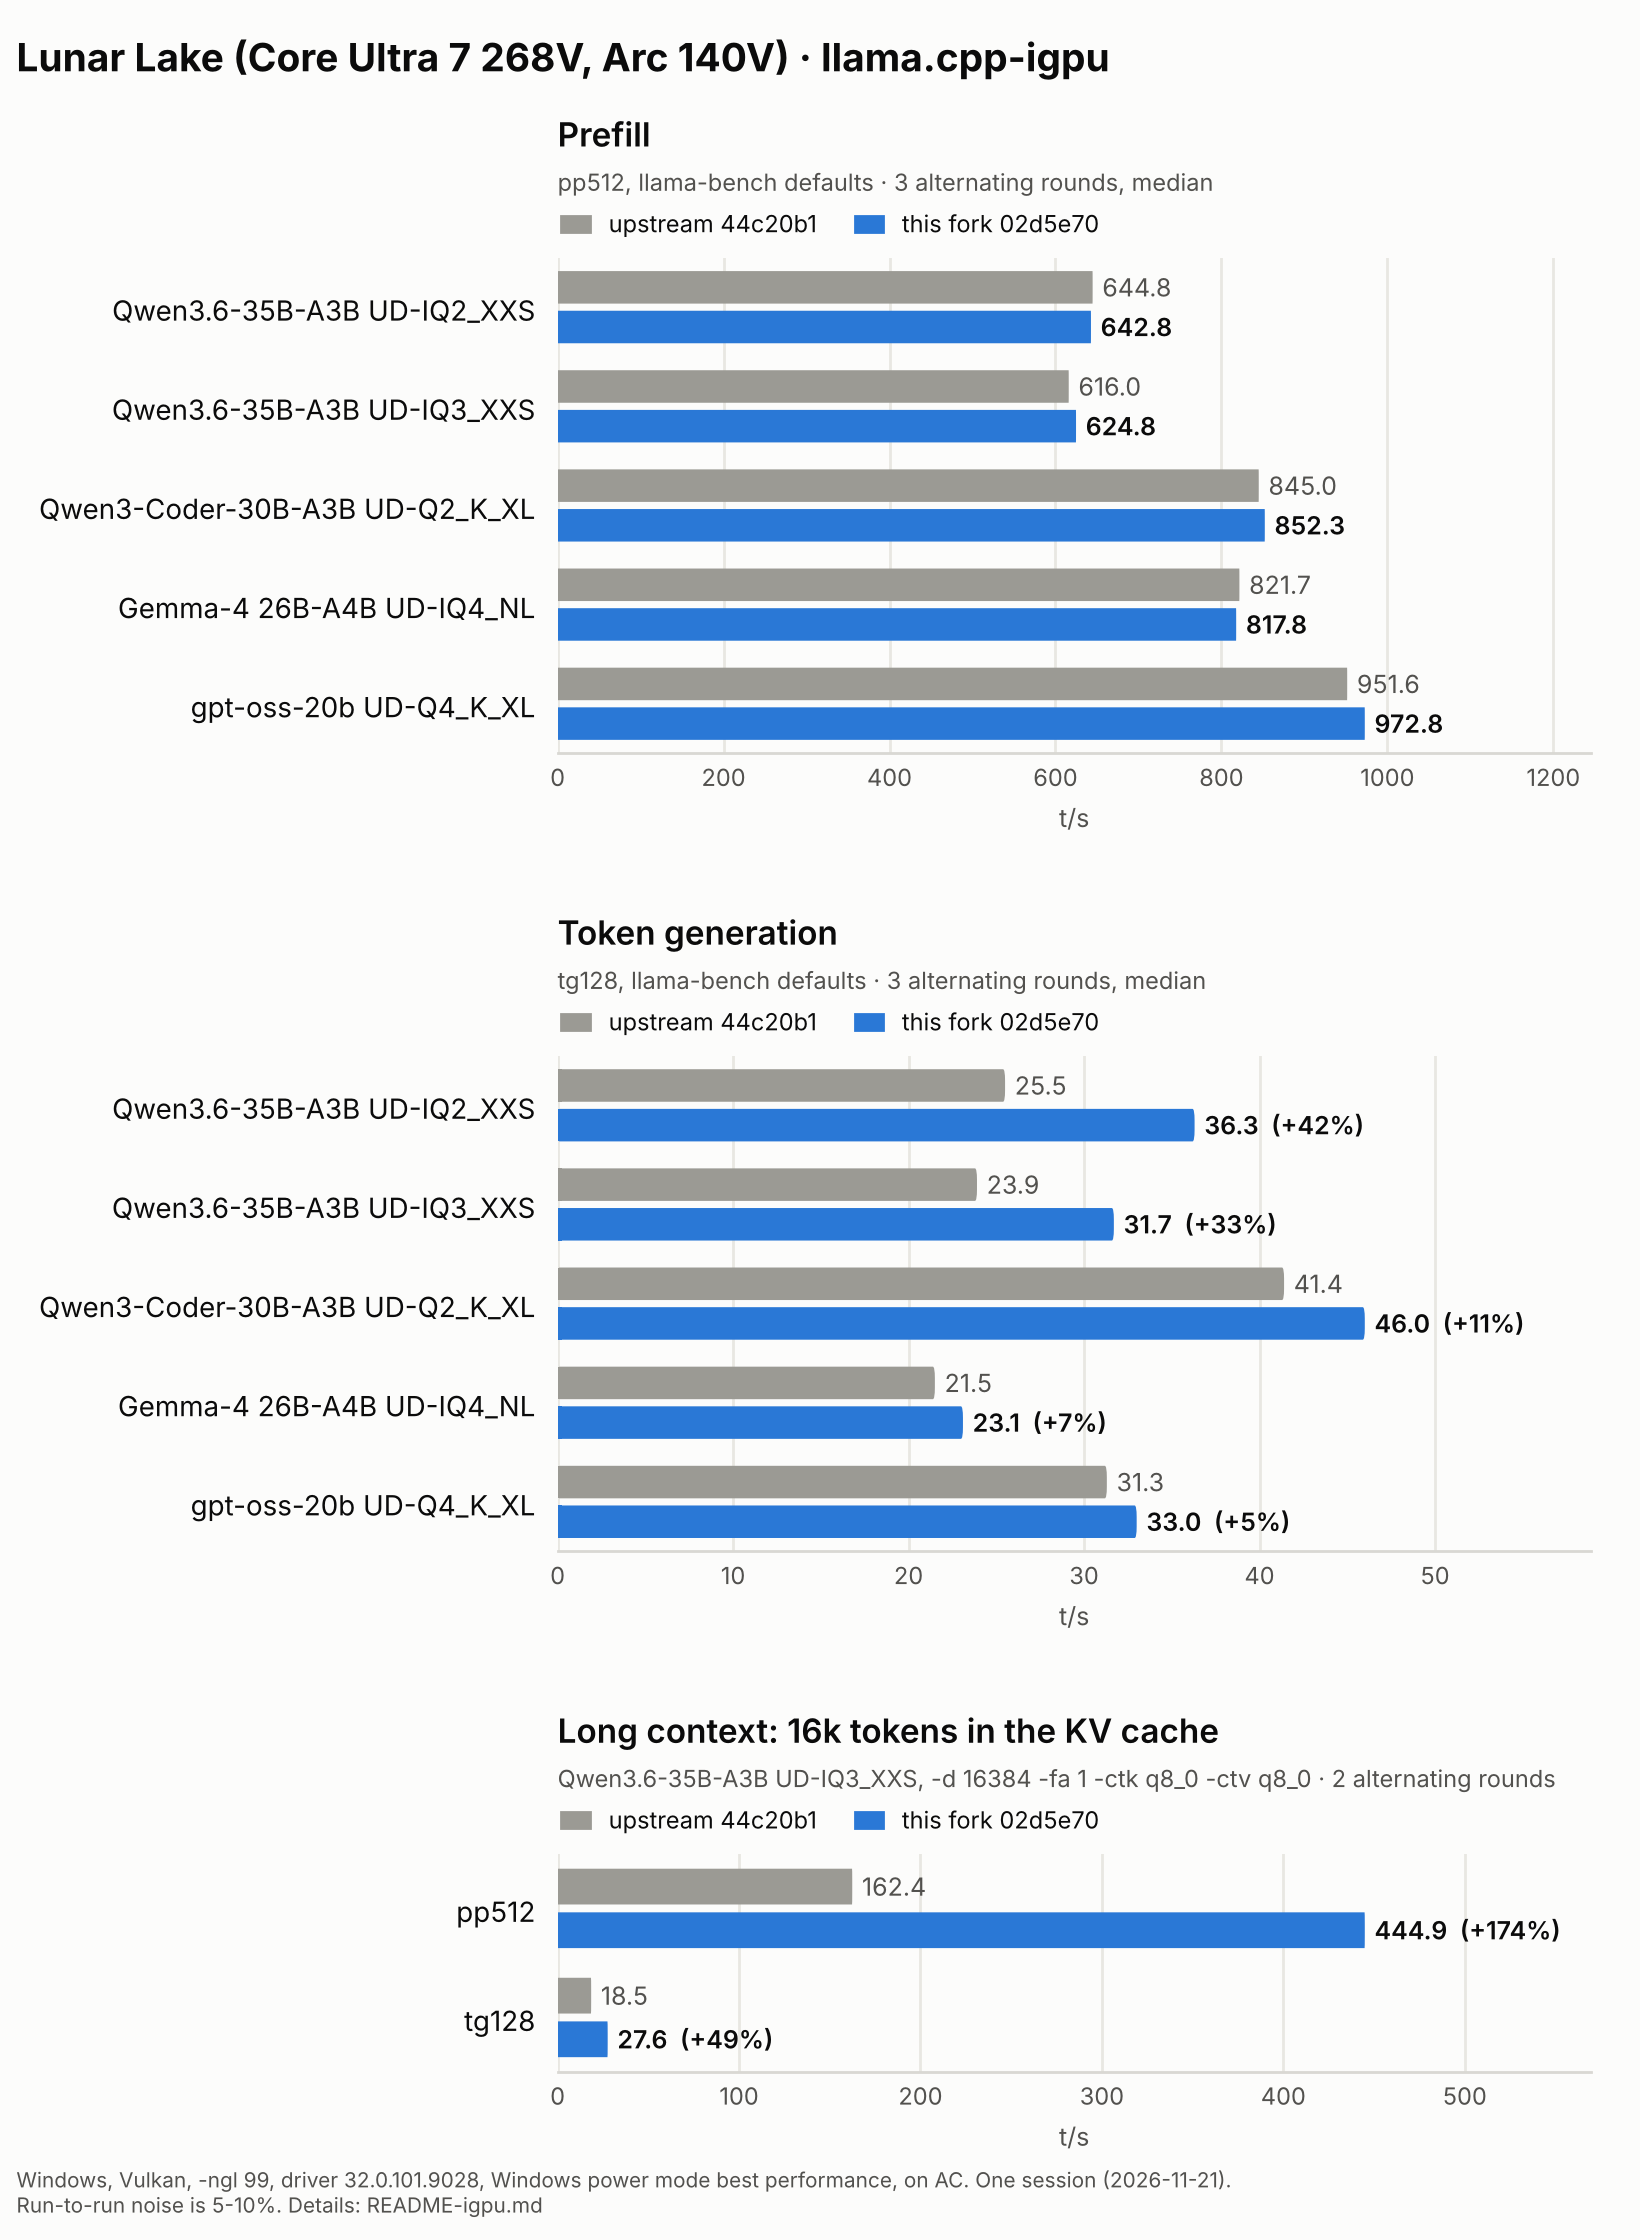
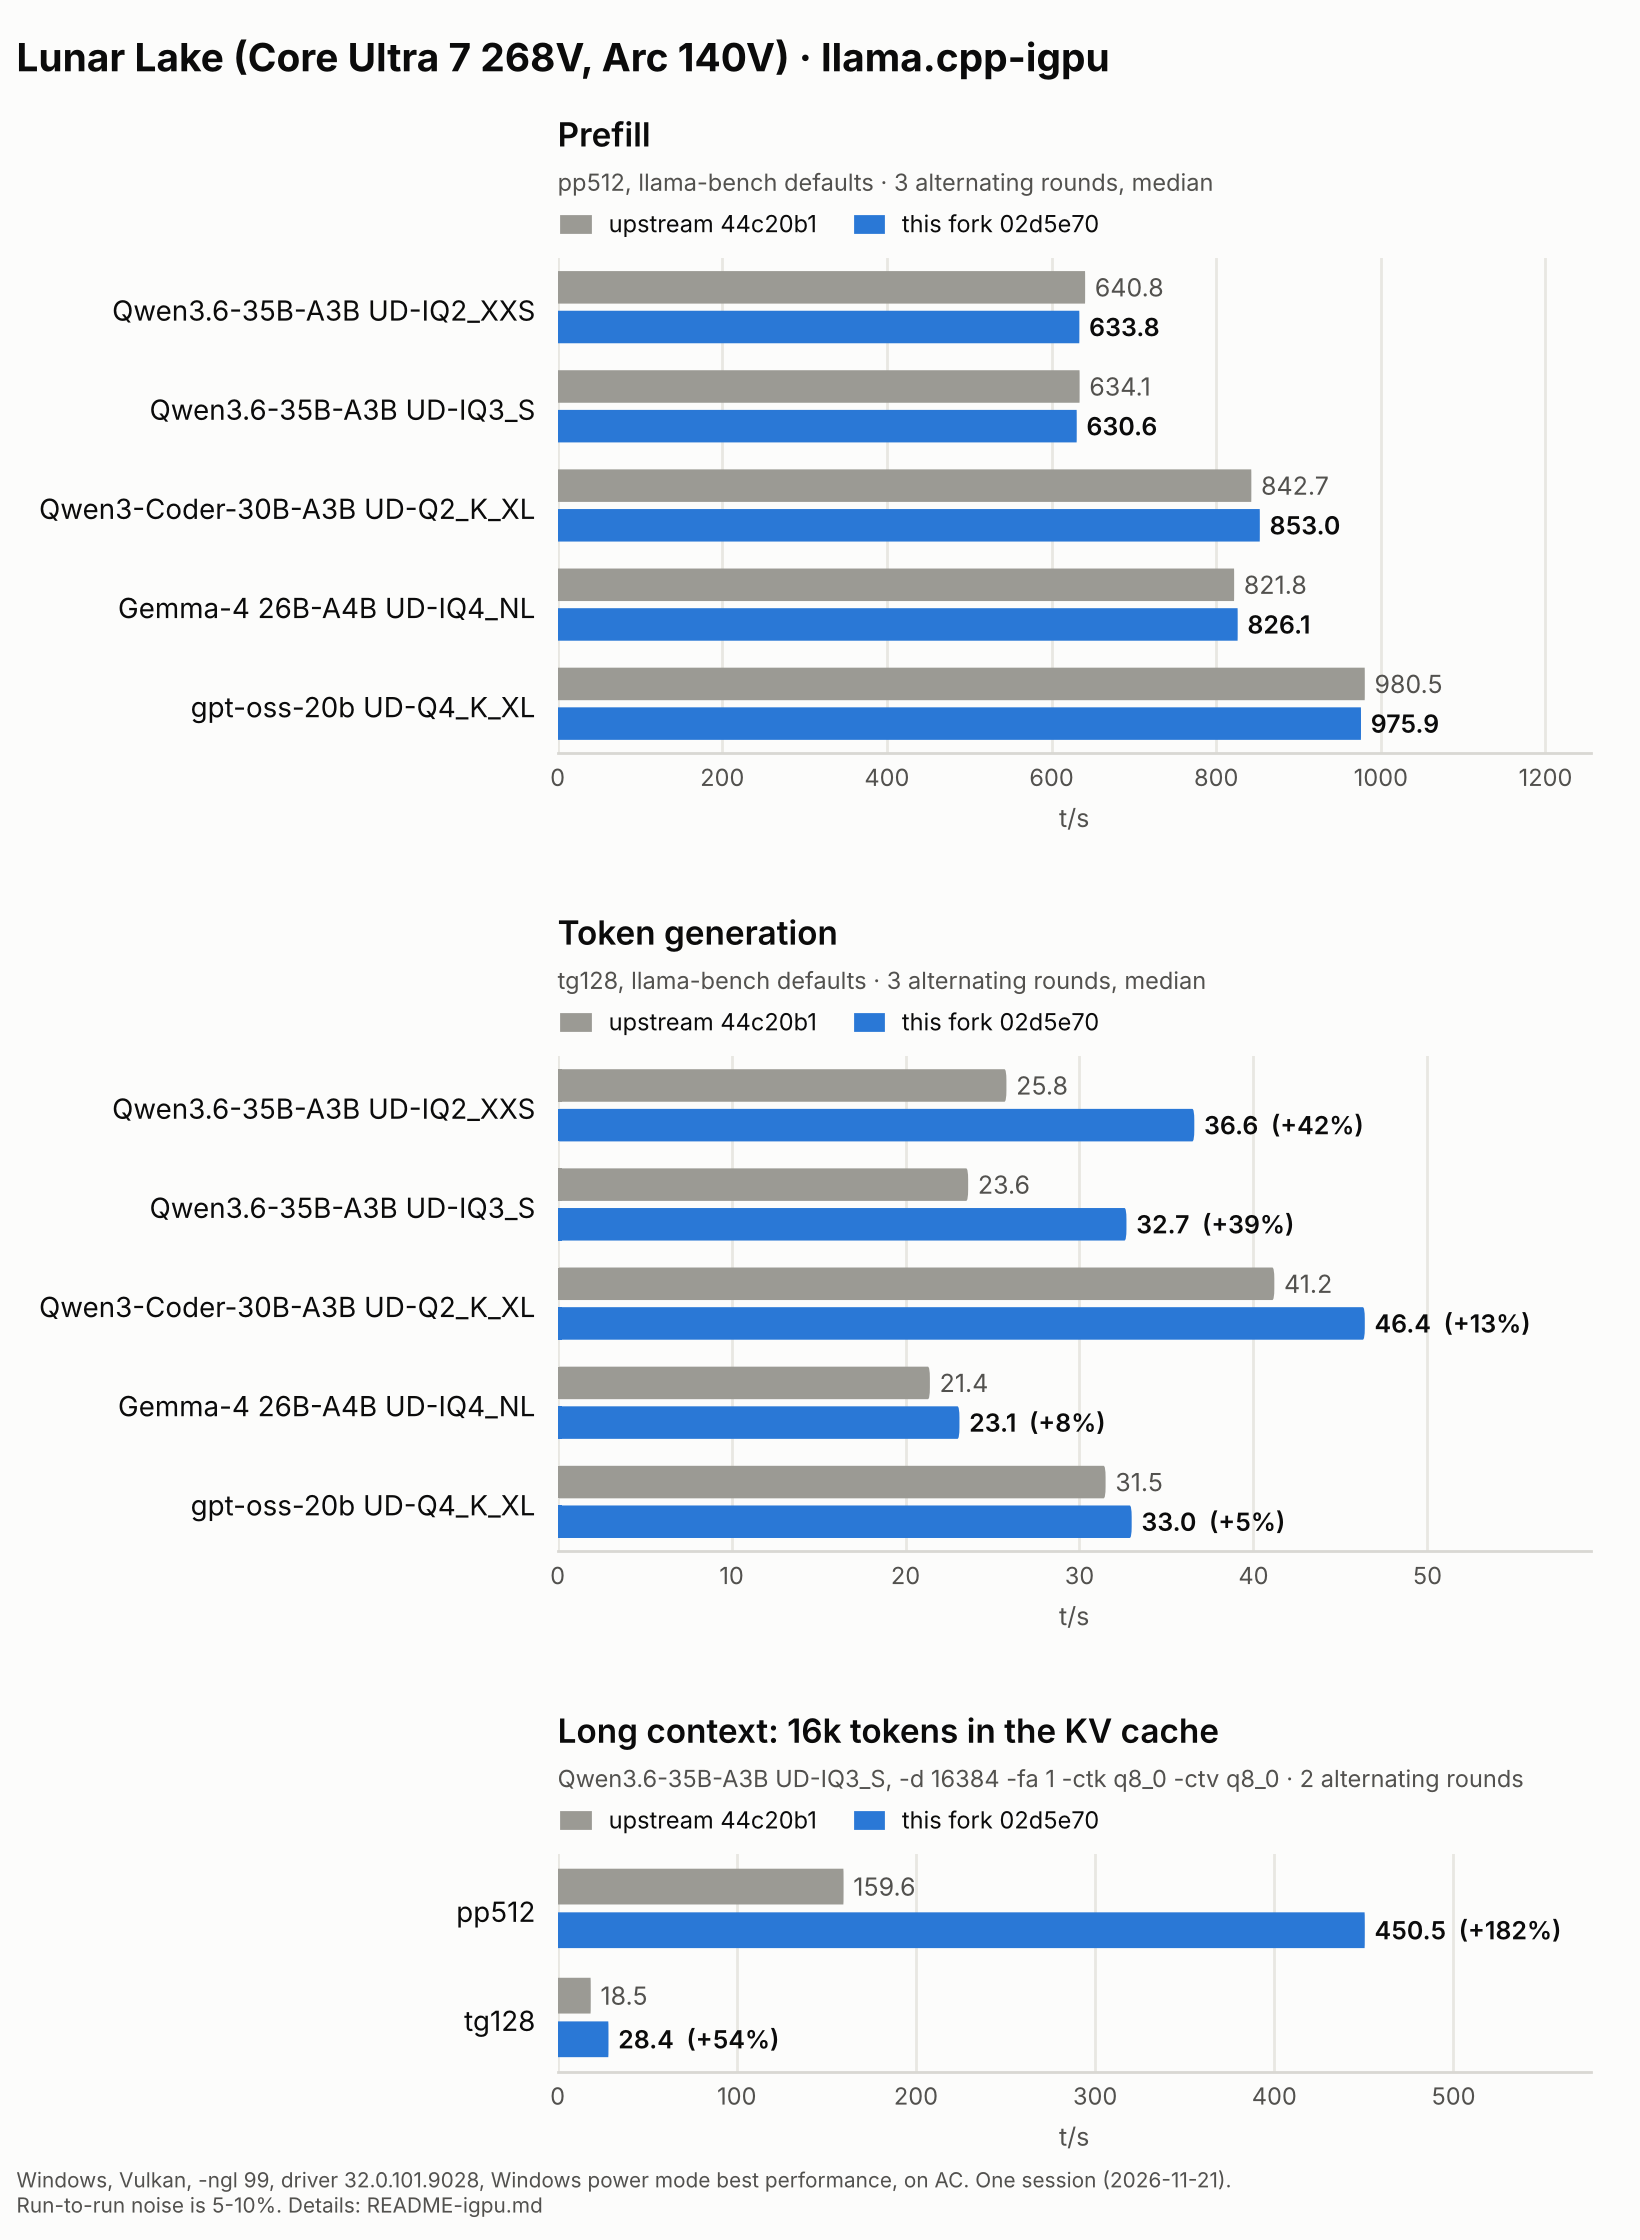
README-igpu: Lunar Lake upstream vs fork re-measured with the real UD-IQ3_S
The first run used a file named UD-IQ3_S that was UD-IQ3_XXS.

Claude-Session: https://claude.ai/code/session_016hN8uJYywep5xmvUceryRL

diff --git a/docs/igpu/make_charts.py b/docs/igpu/make_charts.py
@@ -112,27 +112,27 @@ save(fig, "igpu-meteor-lake.png",
      "Run-to-run noise is 5-10%. Details: README-igpu.md")
 
 # ---------------- Lunar Lake ----------------
-# bench-compare.ps1, 2026-11-21: Core Ultra 7 268V, driver 32.0.101.9028, upstream 44c20b1 vs fork 02d5e70,
-# 3 alternating rounds at depth 0 (2 at depth 16384), medians (upstream had one slow round for two models).
-LNL_MODELS = ["Qwen3.6-35B-A3B UD-IQ2_XXS", "Qwen3.6-35B-A3B UD-IQ3_XXS", "Qwen3-Coder-30B-A3B UD-Q2_K_XL",
+# bench-compare.ps1, 2026-11-21 (second run, IQ3_S re-downloaded): Core Ultra 7 268V, driver 32.0.101.9028,
+# upstream 44c20b1 vs fork 02d5e70, 3 alternating rounds at depth 0 (2 at depth 16384), medians.
+LNL_MODELS = ["Qwen3.6-35B-A3B UD-IQ2_XXS", "Qwen3.6-35B-A3B UD-IQ3_S", "Qwen3-Coder-30B-A3B UD-Q2_K_XL",
               "Gemma-4 26B-A4B UD-IQ4_NL", "gpt-oss-20b UD-Q4_K_XL"]
 fig, axs = plt.subplots(3, 1, figsize=(8.2, 11.2), facecolor=SURFACE,
                         gridspec_kw={"height_ratios": [5, 5, 2.2], "hspace": 0.75})
 panel(axs[0], "Prefill",
       "pp512, llama-bench defaults · 3 alternating rounds, median",
       LNL_MODELS,
-      [("upstream 44c20b1", BASE, [644.8, 616.0, 845.0, 821.7, 951.6]),
-       ("this fork 02d5e70", FORK, [642.8, 624.8, 852.3, 817.8, 972.8])])
+      [("upstream 44c20b1", BASE, [640.8, 634.1, 842.7, 821.8, 980.5]),
+       ("this fork 02d5e70", FORK, [633.8, 630.6, 853.0, 826.1, 975.9])])
 panel(axs[1], "Token generation",
       "tg128, llama-bench defaults · 3 alternating rounds, median",
       LNL_MODELS,
-      [("upstream 44c20b1", BASE, [25.5, 23.9, 41.4, 21.5, 31.3]),
-       ("this fork 02d5e70", FORK, [36.3, 31.7, 46.0, 23.1, 33.0])])
+      [("upstream 44c20b1", BASE, [25.8, 23.6, 41.2, 21.4, 31.5]),
+       ("this fork 02d5e70", FORK, [36.6, 32.7, 46.4, 23.1, 33.0])])
 panel(axs[2], "Long context: 16k tokens in the KV cache",
-      "Qwen3.6-35B-A3B UD-IQ3_XXS, -d 16384 -fa 1 -ctk q8_0 -ctv q8_0 · 2 alternating rounds",
+      "Qwen3.6-35B-A3B UD-IQ3_S, -d 16384 -fa 1 -ctk q8_0 -ctv q8_0 · 2 alternating rounds",
       ["pp512", "tg128"],
-      [("upstream 44c20b1", BASE, [162.4, 18.5]),
-       ("this fork 02d5e70", FORK, [444.9, 27.6])])
+      [("upstream 44c20b1", BASE, [159.6, 18.5]),
+       ("this fork 02d5e70", FORK, [450.5, 28.4])])
 fig.suptitle("Lunar Lake (Core Ultra 7 268V, Arc 140V) · llama.cpp-igpu", x=0.01, ha="left",
              fontsize=14, fontweight="bold", y=0.985)
 fig.subplots_adjust(left=0.34, right=0.97, top=0.885, bottom=0.075)

diff --git a/README-igpu.md b/README-igpu.md
@@ -64,19 +64,20 @@ re-measured.
 
 `bench-compare.ps1`, 2026-11-21: Core Ultra 7 268V (Arc 140V), driver 32.0.101.9028, Windows power mode best
 performance, on AC. Upstream 44c20b1 vs this fork 02d5e70, `llama-bench` defaults, 3 alternating rounds (2 at depth
-16384), median t/s (upstream had one slow pp512 round for Qwen3-Coder and gpt-oss):
+16384), median t/s:
 
 | model | pp512 upstream | pp512 fork | tg128 upstream | tg128 fork |
 |---|---|---|---|---|
-| Qwen3.6-35B-A3B UD-IQ2_XXS | 644.8 | 642.8 (1.00x) | 25.5 | 36.3 (1.42x) |
-| Qwen3.6-35B-A3B UD-IQ3_XXS | 616.0 | 624.8 (1.01x) | 23.9 | 31.7 (1.33x) |
-| Qwen3-Coder-30B-A3B UD-Q2_K_XL | 845.0 | 852.3 (1.01x) | 41.4 | 46.0 (1.11x) |
-| Gemma-4 26B-A4B UD-IQ4_NL | 821.7 | 817.8 (1.00x) | 21.5 | 23.1 (1.07x) |
-| gpt-oss-20b UD-Q4_K_XL | 951.6 | 972.8 (1.02x) | 31.3 | 33.0 (1.05x) |
-| Qwen3.6 IQ3_XXS, depth 16384, `-fa 1 -ctk q8_0 -ctv q8_0` | 162.4 | 444.9 (2.74x) | 18.5 | 27.6 (1.49x) |
+| Qwen3.6-35B-A3B UD-IQ2_XXS | 640.8 | 633.8 (0.99x) | 25.8 | 36.6 (1.42x) |
+| Qwen3.6-35B-A3B UD-IQ3_S | 634.1 | 630.6 (0.99x) | 23.6 | 32.7 (1.39x) |
+| Qwen3-Coder-30B-A3B UD-Q2_K_XL | 842.7 | 853.0 (1.01x) | 41.2 | 46.4 (1.13x) |
+| Gemma-4 26B-A4B UD-IQ4_NL | 821.8 | 826.1 (1.01x) | 21.4 | 23.1 (1.08x) |
+| gpt-oss-20b UD-Q4_K_XL | 980.5 | 975.9 (1.00x) | 31.5 | 33.0 (1.05x) |
+| Qwen3.6 IQ3_S, depth 16384, `-fa 1 -ctk q8_0 -ctv q8_0` | 159.6 | 450.5 (2.82x) | 18.5 | 28.4 (1.54x) |
 
 On Lunar Lake prefill at short context runs on the same FP16 XMX matmuls as upstream; the fork's gains are token
-generation and long context with a quantized KV cache.
+generation and long context with a quantized KV cache. Note: the older Lunar Lake tables below that name
+"UD-IQ3_S" were measured with a file that was actually UD-IQ3_XXS.
 
 ### Prefill, Meteor Lake
 
